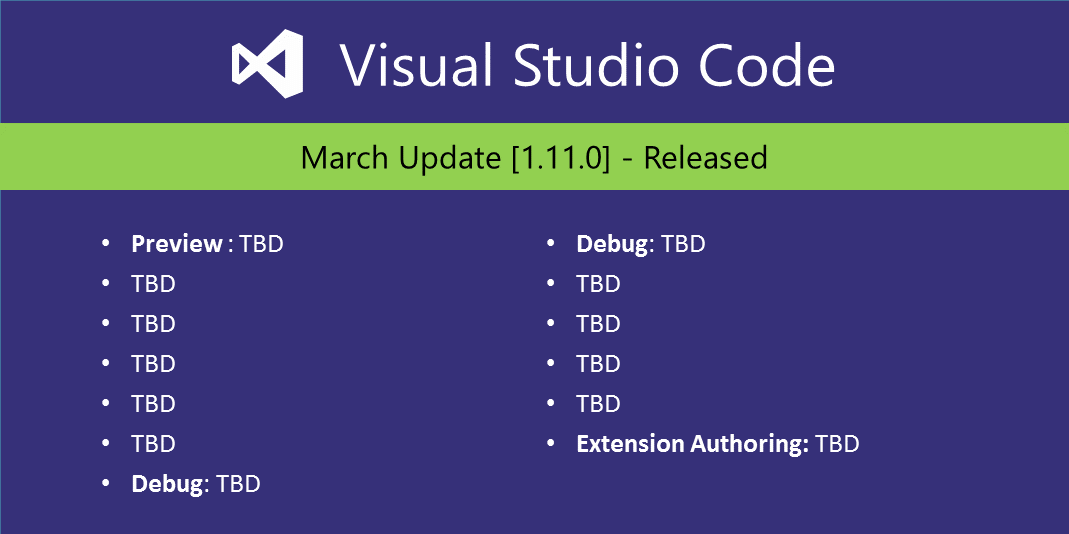
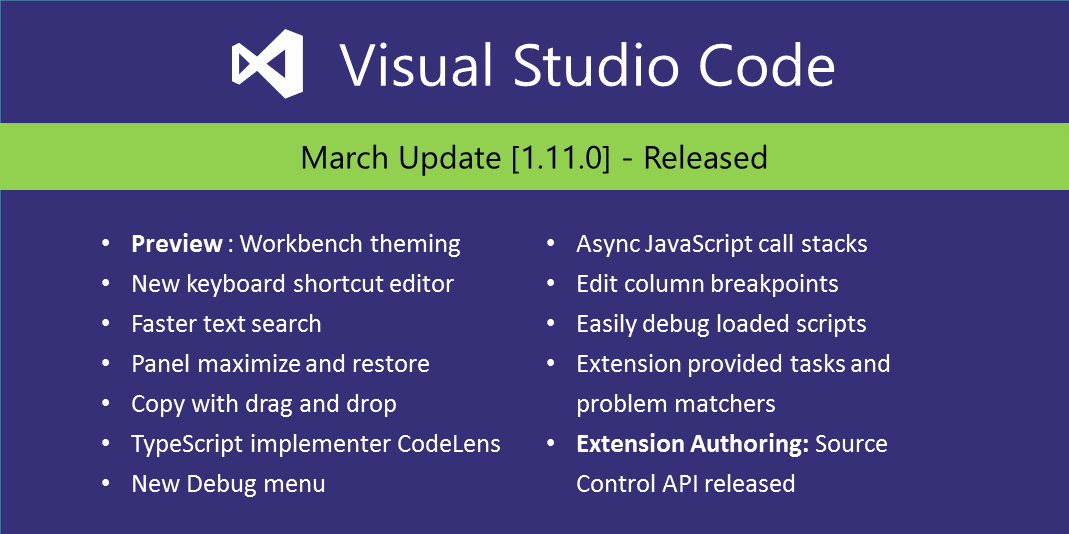
Add 1.11 release highlights image

diff --git a/release-notes/v1_11.md b/release-notes/v1_11.md
@@ -56,9 +56,10 @@ With this release, VS Code provides a rich and easy keyboard shortcuts editing e
 
 ### Improved keyboard layout support
 
-On Windows and OSX, we now detect when the keyboard layout has been switched while VS Code is running and will update all keyboard shortcuts appriopriately.
+On Windows and OSX, we now detect when the keyboard layout has been switched while VS Code is running and will update all keyboard shortcuts appropriately.
 
-On Linux and OSX, we have made significant changes in how keyboard shortcuts are dispatched; we have switched to using the brand new [`KeyboardEvent.code`](https://developer.mozilla.org/en-US/docs/Web/API/KeyboardEvent/code). This new dispatching logic will result in changes in default keyboard shortcuts for non US standard keyboard layouts. Unfortunately, due to the indeterminate nature of `KeyboardEvent.keyCode` on these platforms, we cannot pinpoint in each case the exact changed keybindings and present a list. In most cases, we expect the impact to be limited to the following built-in actions:
+On Linux and OSX, we have made significant changes in how keyboard shortcuts are dispatched; we have switched to using the brand new [`KeyboardEvent.code`](https://developer.mozilla.org/en-US/docs/Web/API/KeyboardEvent/code). This new dispatching logic will result in changes in default keyboard shortcuts for non-US standard keyboard layouts. Unfortunately, due to the indeterminate nature of `KeyboardEvent.keyCode` on these platforms, we cannot be sure in each case the exact changed keybindings and present a list. In most cases, we expect the impact to be limited to the following built-in actions:
+
 * `Toggle Integrated Terminal`
 * `Create New Integrated Terminal`
 * `Zoom in`, `Zoom out`
@@ -66,7 +67,6 @@ On Linux and OSX, we have made significant changes in how keyboard shortcuts are
 * `Fold`, `Unfold`
 * `Split Editor`
 * `Toggle Line Comment`
-
 
 You can read more in [our wiki](https://github.com/Microsoft/vscode/wiki/Keybindings) or in the [plan item](https://github.com/Microsoft/vscode/issues/17521).
 
